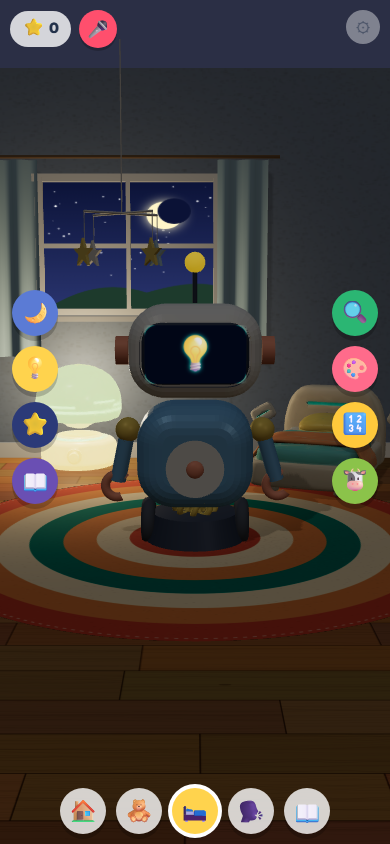
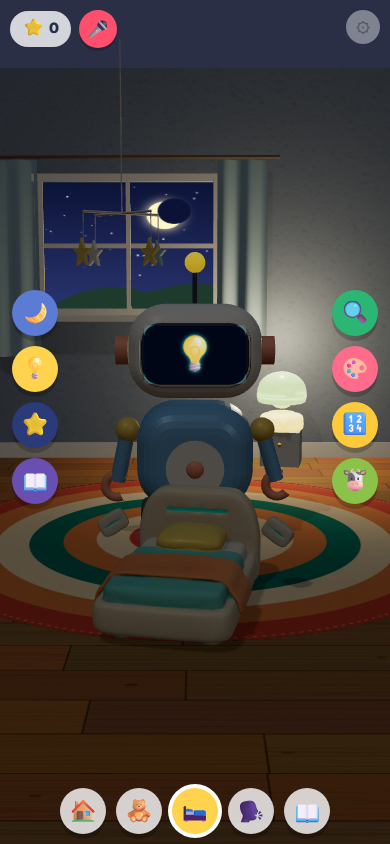
Props: small lamp on nightstand, bed and toy cow placed visibly

Changed region(s): [[0.0, 0.1848, 1.0, 0.7701], [0.4923, 0.8626, 0.5231, 0.8934], [0.4615, 0.4005, 0.4923, 0.4313]]

diff --git a/index.html b/index.html
@@ -950,7 +950,7 @@ function makeFurniture(){
   add('kite',kite,3.3,BACK+.06,0,'play').position.y=4.4;
   // bedroom: night stand and a slowly turning star mobile (bed + lamp above)
   const ns=new THREE.Group();ns.add(part(new THREE.BoxGeometry(.7,.62,.55),M(0xf4f7fb,.6),0,.31,0));ns.add(part(new THREE.SphereGeometry(.04,8,6),YEL,0,.4,.29));
-  add('nightstand',ns,1.6,-4.4,-.2,'bed');
+  add('nightstand',ns,2.4,-4.6,-.2,'bed');
   const ss=new THREE.Shape();for(let i=0;i<10;i++){const r=i%2?.09:.22,a=i*Math.PI/5+Math.PI/2;ss[i?'lineTo':'moveTo'](Math.cos(a)*r,Math.sin(a)*r)}
   const sg=new THREE.ExtrudeGeometry(ss,{depth:.05,bevelEnabled:false}),mob=new THREE.Group(),hang=M(0xdddddd,.6);
   mob.add(part(new THREE.CylinderGeometry(.012,.012,2.5,4),hang,0,1.25,0));
@@ -960,13 +960,13 @@ function makeFurniture(){
 }
 makeFurniture();
 // Tripo GLB props (models/, real size: Googoo = 1) loaded lazily after start; each replaces its primitive group only once it has loaded, so a failed load keeps the old piece
-// id: [file, x tweak factor, ry]; scale = RB.h * tweak (cow: new big toy, play room)
-const PROPS={bed:['bedroom_bed',.4,-.35],lamp:['bedroom_lamp',1.2,0],teddy:['toy_teddy_bear',.7,.3],cow:['farm_cow',.65,-.7,2.6,-4.6,'play']};
+// id: [file, k, ry, x, z, lamp y]; scale = RB.h * tweak (cow: new big toy, play room)
+const PROPS={bed:['bedroom_bed',.3,-.2,-.2,2.6],lamp:['bedroom_lamp',.7,0,2.4,-4.6,.62],teddy:['toy_teddy_bear',.7,.3],cow:['farm_cow',.38,-.5,2.0,-1.3]};
 function loadProps(){if(!THREE.GLTFLoader)return;const ld=new THREE.GLTFLoader();
-  for(const id in PROPS){const[f,k,ry,cx,cz,rm]=PROPS[id];ld.load('models/'+f+'.glb',gl=>{try{
+  for(const id in PROPS){const[f,k,ry,cx,cz,y]=PROPS[id];ld.load('models/'+f+'.glb',gl=>{try{
     const m=gl.scene,old=furnById(id);m.scale.setScalar(RB.h*k);m.updateMatrixWorld(true);
     const g=new THREE.Group();g.add(m);
-    if(old){furnGroup.remove(old);addF(id,g,old.userData.x0,old.position.z,ry,old.userData.room)}else addF(id,g,cx,cz,ry,rm);
+    if(old)furnGroup.remove(old);addF(id,g,cx??old.userData.x0,cz??old.position.z,ry,old?old.userData.room:'play');if(y)g.position.y=y;
     g.visible=g.userData.room===curRoom;
     if(id==='lamp'){const mt=g.userData.shade=gl.scene.getObjectByProperty('isMesh',true).material;mt.emissive=new THREE.Color(0xffc94d);mt.emissiveMap=mt.map;mt.emissiveIntensity=lightsOn?.15:.6;if(lampLight.parent)g.add(lampLight)}
     resize()}catch(e){console.warn('prop',id,e)}},0,e=>console.warn('prop',id,e))}}
@@ -1254,6 +1254,7 @@ function measureRobot(){robot.updateMatrixWorld(true);const b=new THREE.Box3().s
 function resize(){const w=innerWidth,h=innerHeight,cards=scr==='say'||!deck.hidden,toys=itemsGroup.children.length>0;portrait=w<h;
   renderer.setPixelRatio(Math.min(devicePixelRatio,SMALL?1.5:2));renderer.setSize(w,h);camera.aspect=w/h;
   camera.fov=portrait?50:40;
+  const bd=furnById('bed');if(bd){bd.userData.x0=portrait?-.2:-3;bd.position.z=portrait?2.6:-2.6} // bed: on the floor in front of Googoo in portrait, beside him in landscape (he hides the middle)
   const sq=Math.min(1,(portrait?.3:.35)+w/h*.75);furnGroup.children.forEach(g=>g.position.x=g.userData.x0*sq); // portrait: pull furniture toward the middle so it stays on screen
   camera.clearViewOffset();
   // auto-fit: distance from his measured size so he spans top..bot of the screen, or fits the gap between the rails if that is narrower

diff --git a/src_pash-robot.html b/src_pash-robot.html
@@ -949,7 +949,7 @@ function makeFurniture(){
   add('kite',kite,3.3,BACK+.06,0,'play').position.y=4.4;
   // bedroom: night stand and a slowly turning star mobile (bed + lamp above)
   const ns=new THREE.Group();ns.add(part(new THREE.BoxGeometry(.7,.62,.55),M(0xf4f7fb,.6),0,.31,0));ns.add(part(new THREE.SphereGeometry(.04,8,6),YEL,0,.4,.29));
-  add('nightstand',ns,1.6,-4.4,-.2,'bed');
+  add('nightstand',ns,2.4,-4.6,-.2,'bed');
   const ss=new THREE.Shape();for(let i=0;i<10;i++){const r=i%2?.09:.22,a=i*Math.PI/5+Math.PI/2;ss[i?'lineTo':'moveTo'](Math.cos(a)*r,Math.sin(a)*r)}
   const sg=new THREE.ExtrudeGeometry(ss,{depth:.05,bevelEnabled:false}),mob=new THREE.Group(),hang=M(0xdddddd,.6);
   mob.add(part(new THREE.CylinderGeometry(.012,.012,2.5,4),hang,0,1.25,0));
@@ -959,13 +959,13 @@ function makeFurniture(){
 }
 makeFurniture();
 // Tripo GLB props (models/, real size: Googoo = 1) loaded lazily after start; each replaces its primitive group only once it has loaded, so a failed load keeps the old piece
-// id: [file, x tweak factor, ry]; scale = RB.h * tweak (cow: new big toy, play room)
-const PROPS={bed:['bedroom_bed',.4,-.35],lamp:['bedroom_lamp',1.2,0],teddy:['toy_teddy_bear',.7,.3],cow:['farm_cow',.65,-.7,2.6,-4.6,'play']};
+// id: [file, k, ry, x, z, lamp y]; scale = RB.h * tweak (cow: new big toy, play room)
+const PROPS={bed:['bedroom_bed',.3,-.2,-.2,2.6],lamp:['bedroom_lamp',.7,0,2.4,-4.6,.62],teddy:['toy_teddy_bear',.7,.3],cow:['farm_cow',.38,-.5,2.0,-1.3]};
 function loadProps(){if(!THREE.GLTFLoader)return;const ld=new THREE.GLTFLoader();
-  for(const id in PROPS){const[f,k,ry,cx,cz,rm]=PROPS[id];ld.load('models/'+f+'.glb',gl=>{try{
+  for(const id in PROPS){const[f,k,ry,cx,cz,y]=PROPS[id];ld.load('models/'+f+'.glb',gl=>{try{
     const m=gl.scene,old=furnById(id);m.scale.setScalar(RB.h*k);m.updateMatrixWorld(true);
     const g=new THREE.Group();g.add(m);
-    if(old){furnGroup.remove(old);addF(id,g,old.userData.x0,old.position.z,ry,old.userData.room)}else addF(id,g,cx,cz,ry,rm);
+    if(old)furnGroup.remove(old);addF(id,g,cx??old.userData.x0,cz??old.position.z,ry,old?old.userData.room:'play');if(y)g.position.y=y;
     g.visible=g.userData.room===curRoom;
     if(id==='lamp'){const mt=g.userData.shade=gl.scene.getObjectByProperty('isMesh',true).material;mt.emissive=new THREE.Color(0xffc94d);mt.emissiveMap=mt.map;mt.emissiveIntensity=lightsOn?.15:.6;if(lampLight.parent)g.add(lampLight)}
     resize()}catch(e){console.warn('prop',id,e)}},0,e=>console.warn('prop',id,e))}}
@@ -1253,6 +1253,7 @@ function measureRobot(){robot.updateMatrixWorld(true);const b=new THREE.Box3().s
 function resize(){const w=innerWidth,h=innerHeight,cards=scr==='say'||!deck.hidden,toys=itemsGroup.children.length>0;portrait=w<h;
   renderer.setPixelRatio(Math.min(devicePixelRatio,SMALL?1.5:2));renderer.setSize(w,h);camera.aspect=w/h;
   camera.fov=portrait?50:40;
+  const bd=furnById('bed');if(bd){bd.userData.x0=portrait?-.2:-3;bd.position.z=portrait?2.6:-2.6} // bed: on the floor in front of Googoo in portrait, beside him in landscape (he hides the middle)
   const sq=Math.min(1,(portrait?.3:.35)+w/h*.75);furnGroup.children.forEach(g=>g.position.x=g.userData.x0*sq); // portrait: pull furniture toward the middle so it stays on screen
   camera.clearViewOffset();
   // auto-fit: distance from his measured size so he spans top..bot of the screen, or fits the gap between the rails if that is narrower

diff --git a/sw.js b/sw.js
@@ -1,6 +1,6 @@
 // Googoo Robo service worker. tools/build.py rewrites the two versions below on every build:
 // a new page build = new shell cache, new/changed audio = new audio cache; old caches are deleted on activate.
-const SHELL_V='4d500c3fcf',AUDIO_V='92904cdb22',SHELL='googoo-shell-'+SHELL_V,AUDIO='googoo-audio-'+AUDIO_V;
+const SHELL_V='076784b4b5',AUDIO_V='92904cdb22',SHELL='googoo-shell-'+SHELL_V,AUDIO='googoo-audio-'+AUDIO_V;
 const PRE=['./','manifest.webmanifest','icons/icon-192.png','icons/icon-512.png','icons/apple-touch-icon.png','audio/manifest.json','vocab/stories.json',
   'https://cdnjs.cloudflare.com/ajax/libs/three.js/r128/three.min.js',
   'https://cdn.jsdelivr.net/npm/three@0.128.0/examples/js/loaders/GLTFLoader.js',

diff --git a/docs/HANDOFF.md b/docs/HANDOFF.md
@@ -8,7 +8,7 @@
 ### Open threads (where we stopped)
 1. **Phone layout: approved and built (2026-10-21, dev).** Small mic at the top left next to a star counter (correct answers from `stats`), gear alone at the top right; left rail = room actions (home: Feed, Dance, Sing, Lamp; play: Ball, Bubbles, Disco, Peek; bed: Sleep, Lamp, Peek/Stars, Night story), right rail = learning games (Find, Colour, Count, Animals) in every room; bottom = room tabs, with space left for a map tab. **The map comes later with the first outside place:** house rooms stay as tabs, outside places via a map button plus doors in the scene, places unlocking with stars. Buttons left off screen (code kept, in `#btns`): Jump, Moves, Dark. Tapping a body part now also says its Farsi word (`PART_WORD`). The speed, battery and installable-app parts of the earlier draft stay.
 1b. **Auto-fit camera and picture bubbles (2026-10-21, dev).** `resize()` frames Googoo from his measured size: `measureRobot()` reads his rest-pose box once (`RB`: h, w, y0) and sets the camera distance so he spans about 12%-82% of the height (portrait) or is fitted to the gap between the rails if that is narrower (today's chunky robot is width-limited, about 38% of the height). **When the Tripo model is swapped in, call `measureRobot()` again** (test: the loop resets `robot.scale` every frame, so move his children into a wrapper group, scale that to (0.6,1.6,0.6), then `measureRobot()`). Size knob `SIZE=.9` (user approved 90% on their phone, 2026-10-21): he is centred in that band at 90%, a tall model fills about 63% of the height. Don't pin his feet to the tabs: that shifts the whole room down and bares the top. Portrait rails (46px) sit at 47% height beside his body; they drop to the bottom only while a card deck or the Say it card is up. No text bubbles for the child: `say(k)` puts the word's picture on his face screen (`face='pic'`, `facePic`, drawn big in `drawFace`) and returns to the normal face when the clip ends; if the face is hidden (peek) or he sleeps, a tiny round picture bubble (`#pbub`) shows beside his head; lines with no picture (greetings, reactions) show nothing. Parent corner switch **Show words** (localStorage `pash-words`, off by default) shows a small Farsi-only caption (`#bubble`, no transliteration or English). Layout shots in `docs/layout-shots/v2-*.png`.
-1c. **Tripo props (2026-10-21, dev).** `models/*.glb` (bed, bedroom lamp, teddy, cow; real size, Googoo = 1, pivot bottom-centre, front +Z) are loaded lazily after start by `loadProps()` (classic r128 `GLTFLoader.js` from jsdelivr, also in the sw PRE list; `.glb` is cache-first in sw.js like audio). Scale = `RB.h * k`; the per-prop factor `k` and rotation live in `PROPS` (bed .4, lamp 1.2, teddy .7, cow .65; at k=1 they are far too big for this room). Each GLB replaces its primitive furniture group only after it loads (failure keeps the primitive), through `addF` so taps, `userData.furn` and the hitbox still work. Lamp: the GLB material is made emissive for `setLights`. The cow is a new play-room toy (right, back) that taps like the teddy and says `w_cow`.
+1c. **Tripo props (2026-10-21, dev).** `models/*.glb` (bed, bedroom lamp, teddy, cow; real size, Googoo = 1, pivot bottom-centre, front +Z) are loaded lazily after start by `loadProps()` (classic r128 `GLTFLoader.js` from jsdelivr, also in the sw PRE list; `.glb` is cache-first in sw.js like audio). Scale = `RB.h * k`; the per-prop factor `k` and rotation live in `PROPS` (bed .3, lamp .7, teddy .7, cow .38; at k=1 they are far too big for this room). Each GLB replaces its primitive furniture group only after it loads (failure keeps the primitive), through `addF` so taps, `userData.furn` and the hitbox still work. Lamp: the GLB material is made emissive for `setLights`. The lamp stands on the nightstand; the bed sits on the floor in front of Googoo in portrait and beside him in landscape (set in `resize()`); the cow is a new toy-size play-room toy (front right of Googoo) that taps like the teddy and says `w_cow`.
 2. **Engine: prototype both** web (three.js) and Unity with the same small scene: the Tripo robot in the bedroom, lamp on/off, tap to react and dance, one whispered line with the face screen. Waiting on the user: (a) Unity Hub is installed; they sign in, pick the Personal licence, install the LTS editor with Android Build Support; (b) then add Unity's official Claude Code plugin (Anthropic Directory "Unity", beta) and check whether it can drive the editor; (c) buy Tripo (US$28 for one month), re-generate the robot as **Private** with multi-view (front, side and back images in `Downloads\Pash 3D\`), Generate in Parts on, about 30k polygons, export **GLB** to `Downloads\Pash 3D\`. The first Tripo result (free plan, public) looked good; its face is painted on, so cover it with our animated canvas face screen. Animate the rigid parts in code (no skinning). Pro Refine (a human fix, about $10) is not needed yet.
 3. **three.js upgrade (r128 -> current)** only after the phone layout is approved (needed for glTF-Transform, three-pathfinding etc.; switch to an import map).
 4. **Open world idea (agreed direction, not started):** keep the house as home base, then a small Persian neighbourhood: courtyard with a pool (حیاط، حوض) -> street (کوچه) -> fruit shop -> park -> farm (-> beach). Tap-to-walk plus a big picture map; no joystick. Props from Tripo in one style; KayKit (CC0) only if its style matches.
